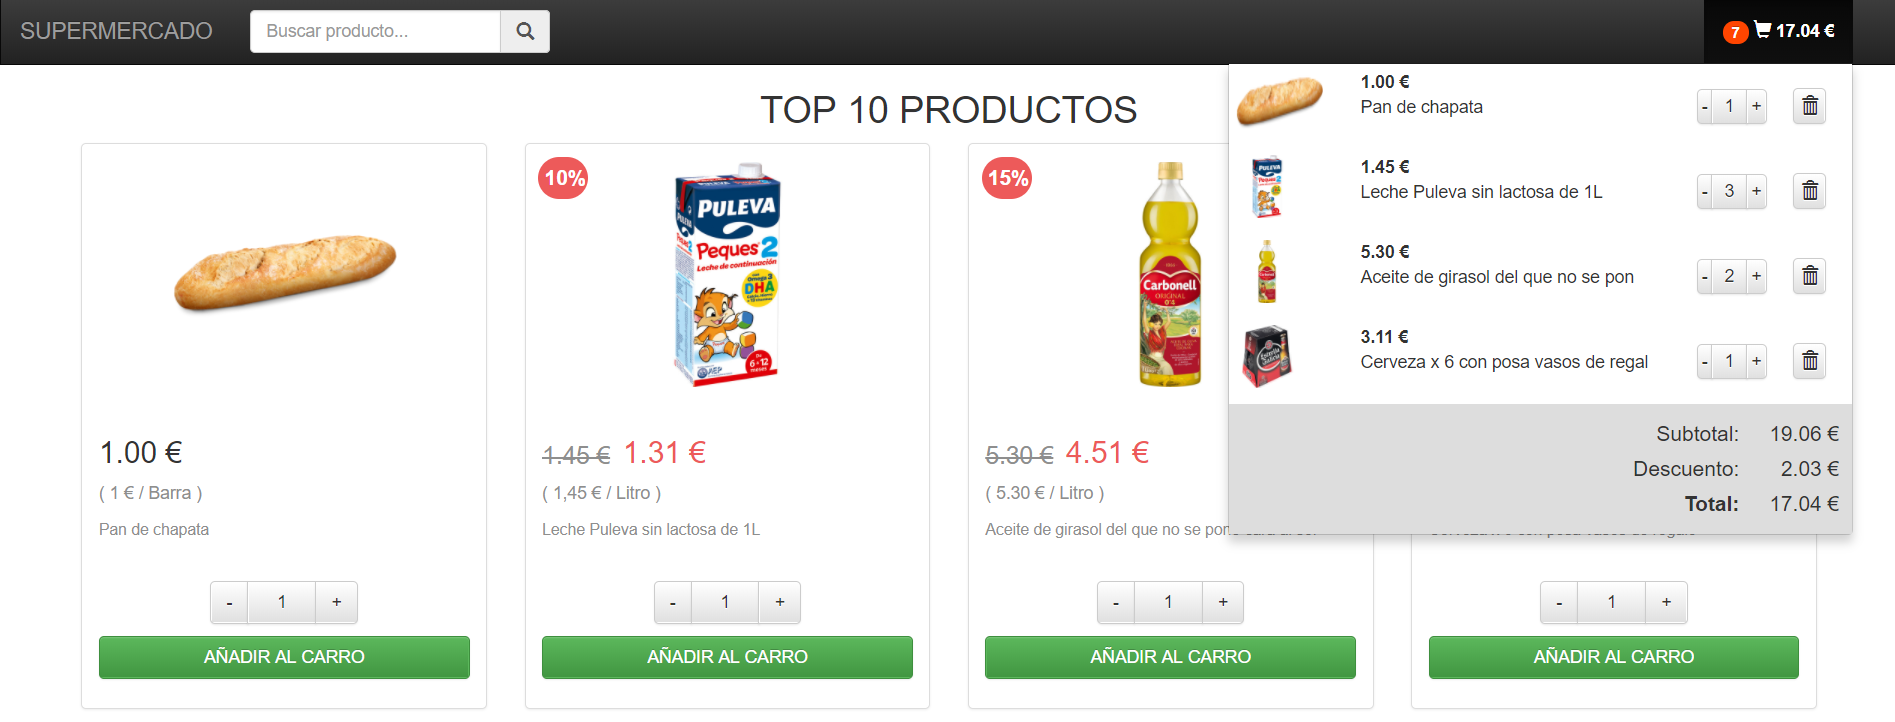
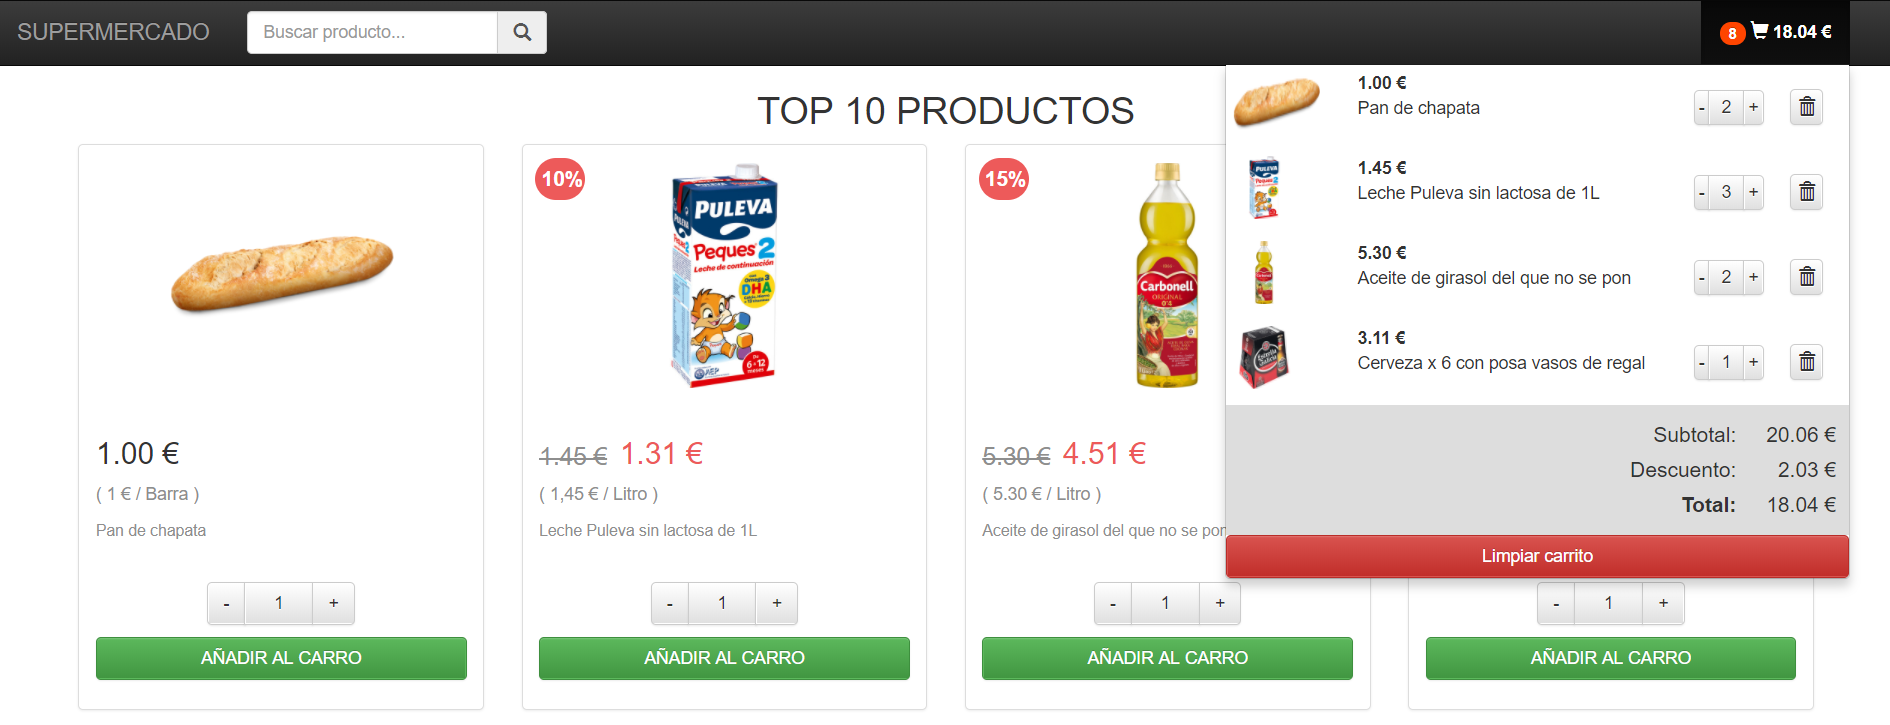
Limpiar carrito

diff --git a/src/app/supermercado/supermercado.component.html b/src/app/supermercado/supermercado.component.html
@@ -47,6 +47,9 @@
               <p class="descuentos">Descuento: <span>{{descuento | number:'.2-2'}} €</span></p>
               <p class="total"><b>Total:</b> <span>{{total | number:'.2-2'}} €</span></p>
             </li>
+            <li>
+              <button class="btn btn-danger btn-block" (click)="clearCarrito()">Limpiar carrito</button>
+            </li>
           </ul>
         </li>
       </ul>

diff --git a/src/app/supermercado/supermercado.component.ts b/src/app/supermercado/supermercado.component.ts
@@ -160,4 +160,15 @@ export class SupermercadoComponent implements OnInit {
     this.carrito.splice(posicion, 1);
   }
 
+  /**
+   * Vacia el carrito de la compra
+   */
+  clearCarrito() {
+    this.carrito = [];
+    this.subtotal = 0;
+    this.descuento = 0;
+    this.total = 0;
+    this.cantCarrito = 0;
+  }
+
 }

diff --git a/README.md b/README.md
@@ -7,9 +7,12 @@ Supermercado con productos cargados de un mock que se pueden filtrar, añadir, m
 
 Este proyecto ha sido desarrollado en Angular 2 (v2.5).
 
+## Versiones
+
+* **Tag 0.1** : Supermercado: filtra, añade, modifica unidades y borra productos.
+
 ## How to use
 
 Ejectura `npm install` para instalar las dependencias necesarias alojadas en `node_modules`.
 Ejecuta `ng serve --o` para lanzar un servidor de desarrollo en `http://localhost:4200/`. La app se actualizará automáticamente al guardar el proyecto.
 Este proyecto ha sido generado mediante la versión 1.7.1 de [Angular CLI](https://github.com/angular/angular-cli)
-
